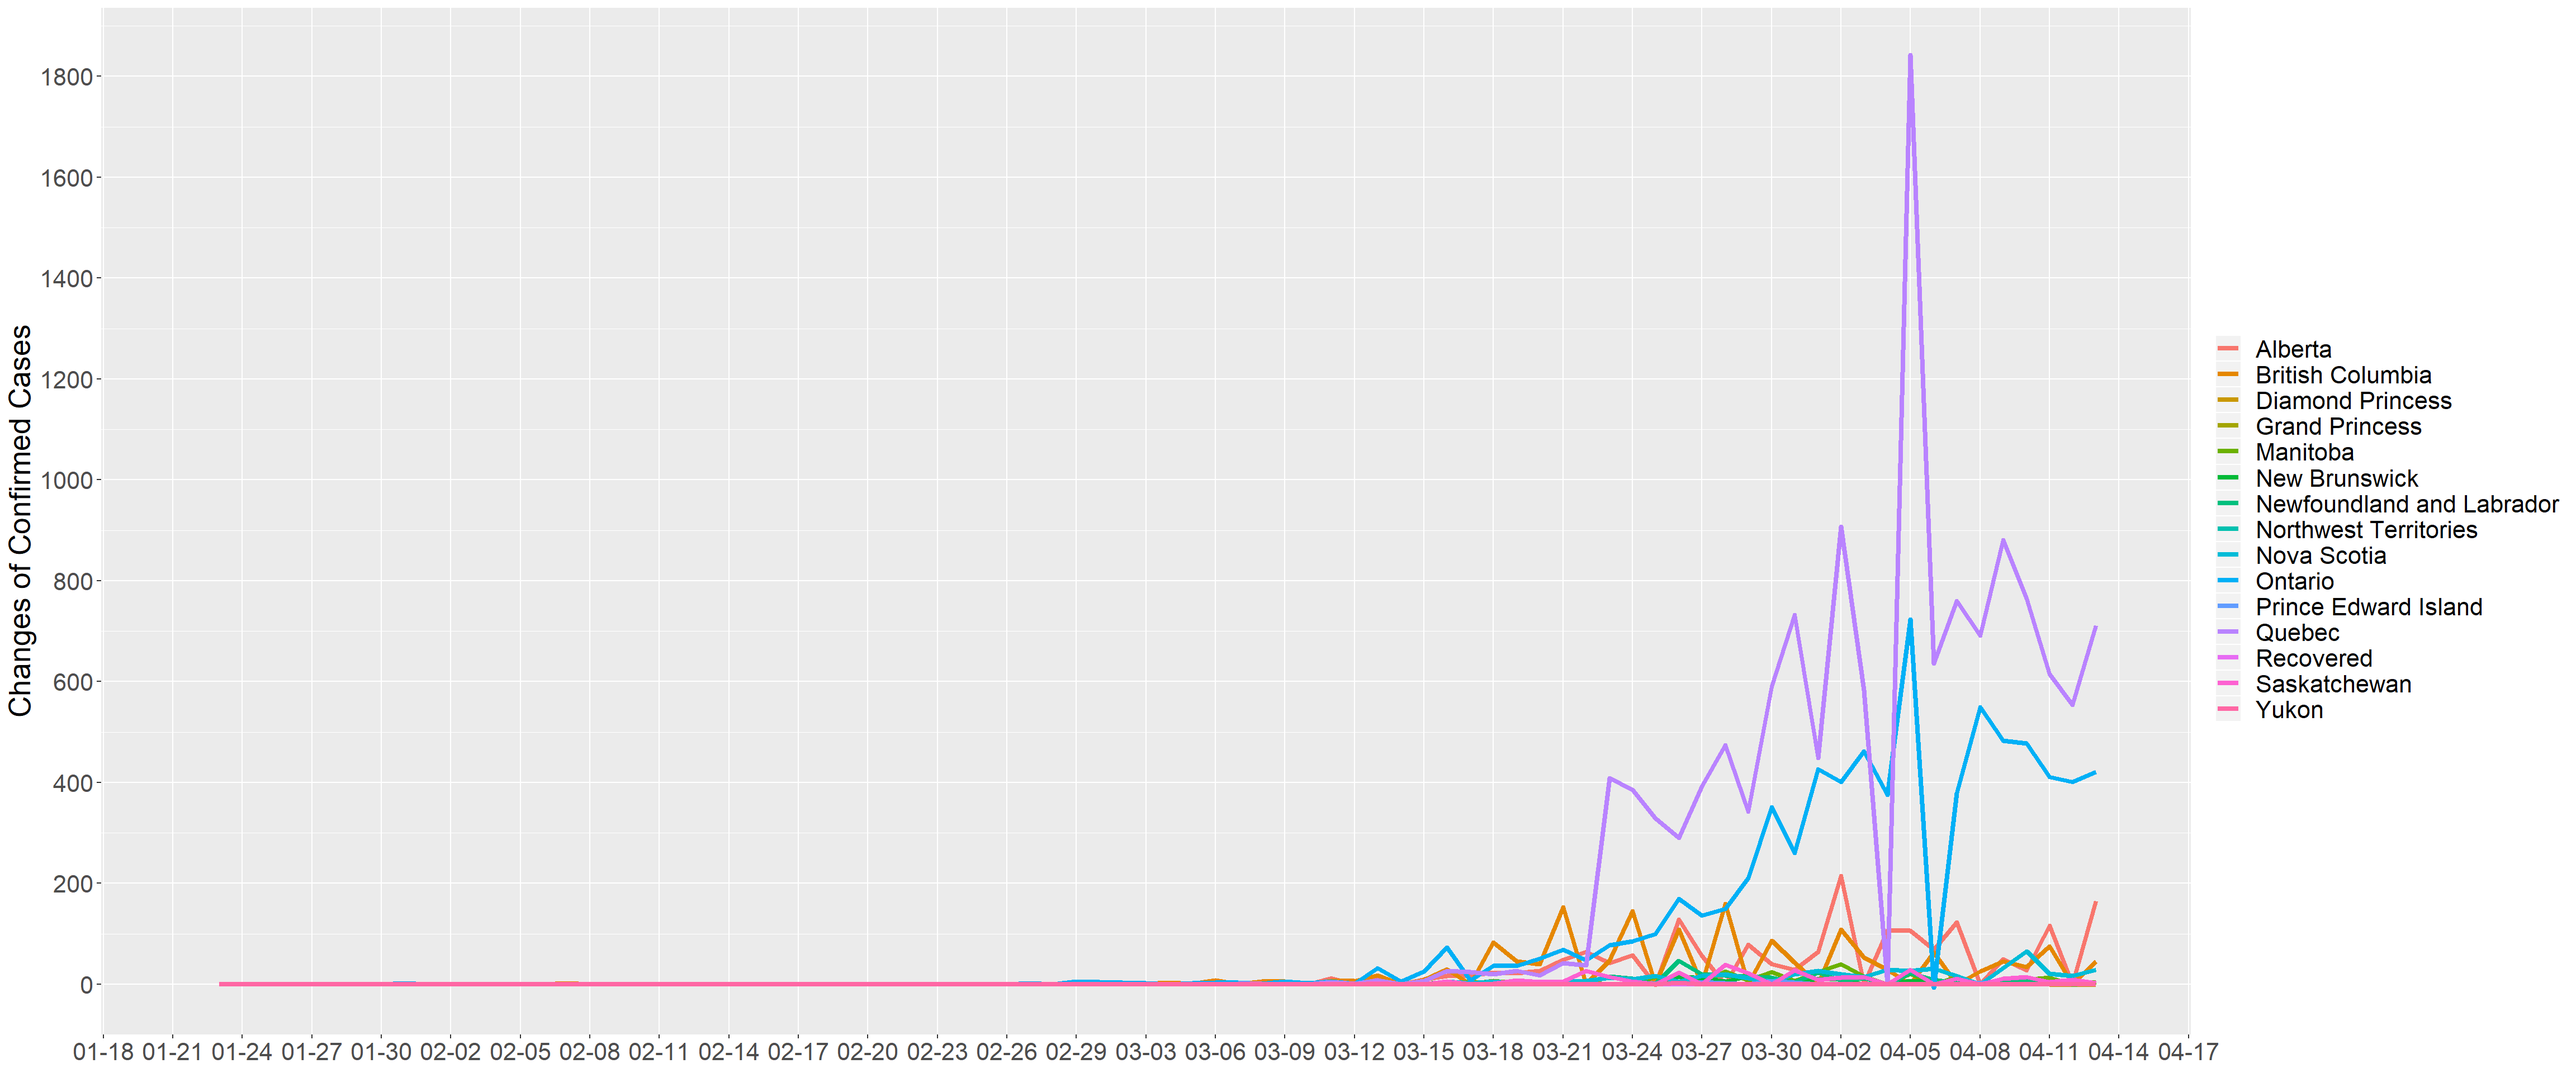
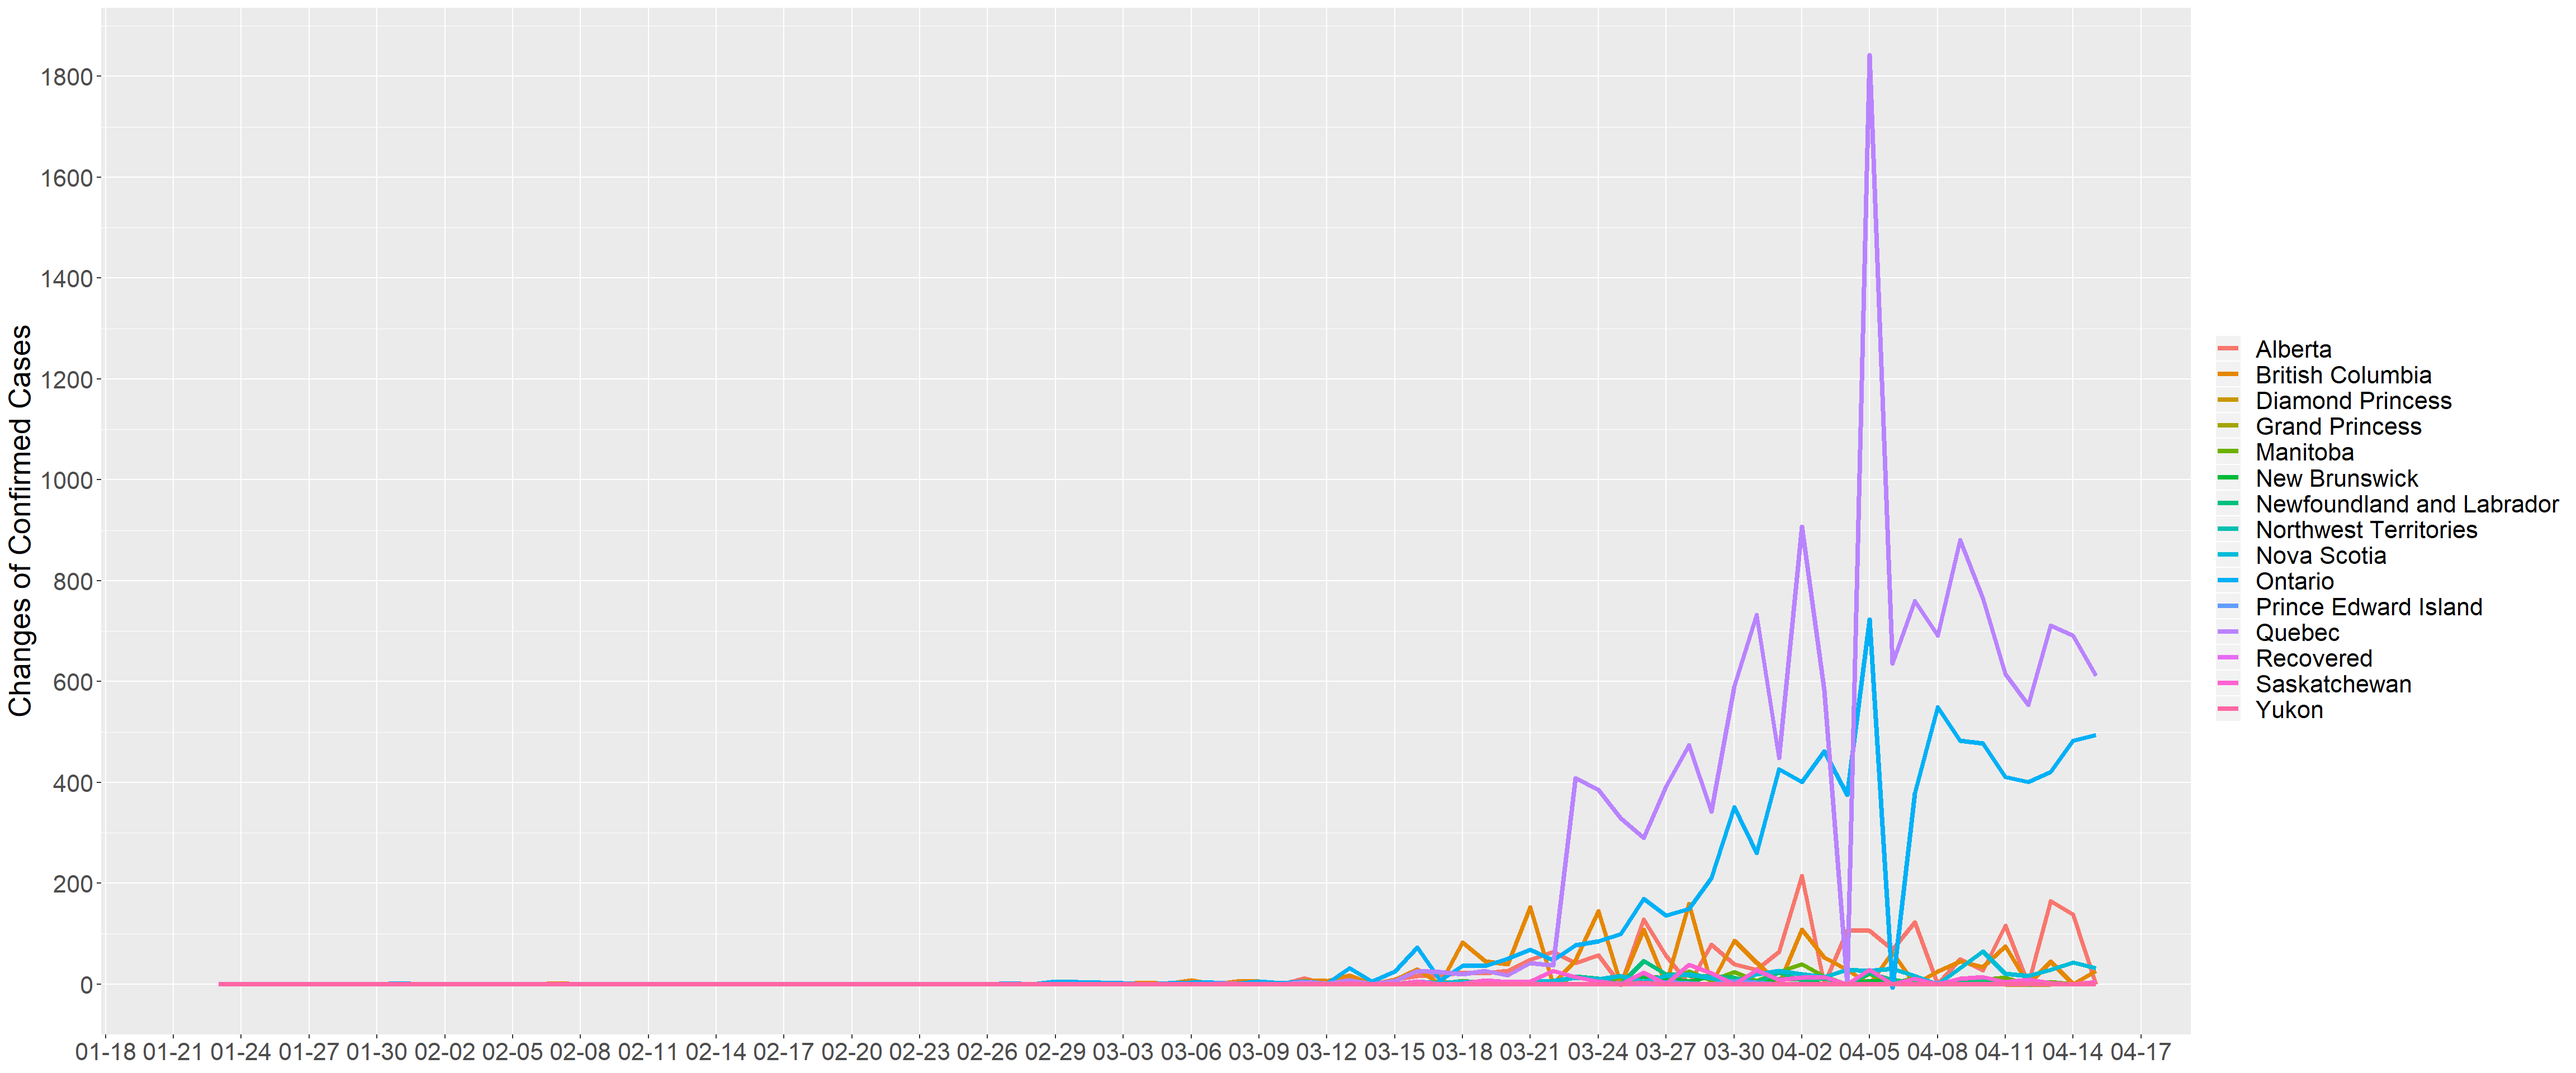
updates April 15

Changed region(s): [[0.5, 0.0625, 0.8125, 0.9375], [0.0312, 0.9688, 0.8438, 1.0]]

diff --git a/projects/COVID-19-EDA/COVID-19-EDA.html b/projects/COVID-19-EDA/COVID-19-EDA.html
@@ -10,7 +10,7 @@
 
 <meta name="author" content="Iris Jiang" />
 
-<meta name="date" content="2020-04-13" />
+<meta name="date" content="2020-04-15" />
 
 <title>COVID-19 Exploratory Data Analysis</title>
 
@@ -83,7 +83,7 @@ $(document).ready(function () {
     
     <div id="postamble" data-toggle="wy-nav-shift" class="status">
               <p class="author"><span class="glyphicon glyphicon-user"></span> Iris Jiang</p>
-                  <p class="date"><span class="glyphicon glyphicon-calendar"></span> April 13, 2020</p>
+                  <p class="date"><span class="glyphicon glyphicon-calendar"></span> April 15, 2020</p>
         </div>
 </div>
 

diff --git a/projects/index.html b/projects/index.html
@@ -1,5 +1,5 @@
 ---
-layout: default
+layout: projects
 title: Projects
 ---
 
